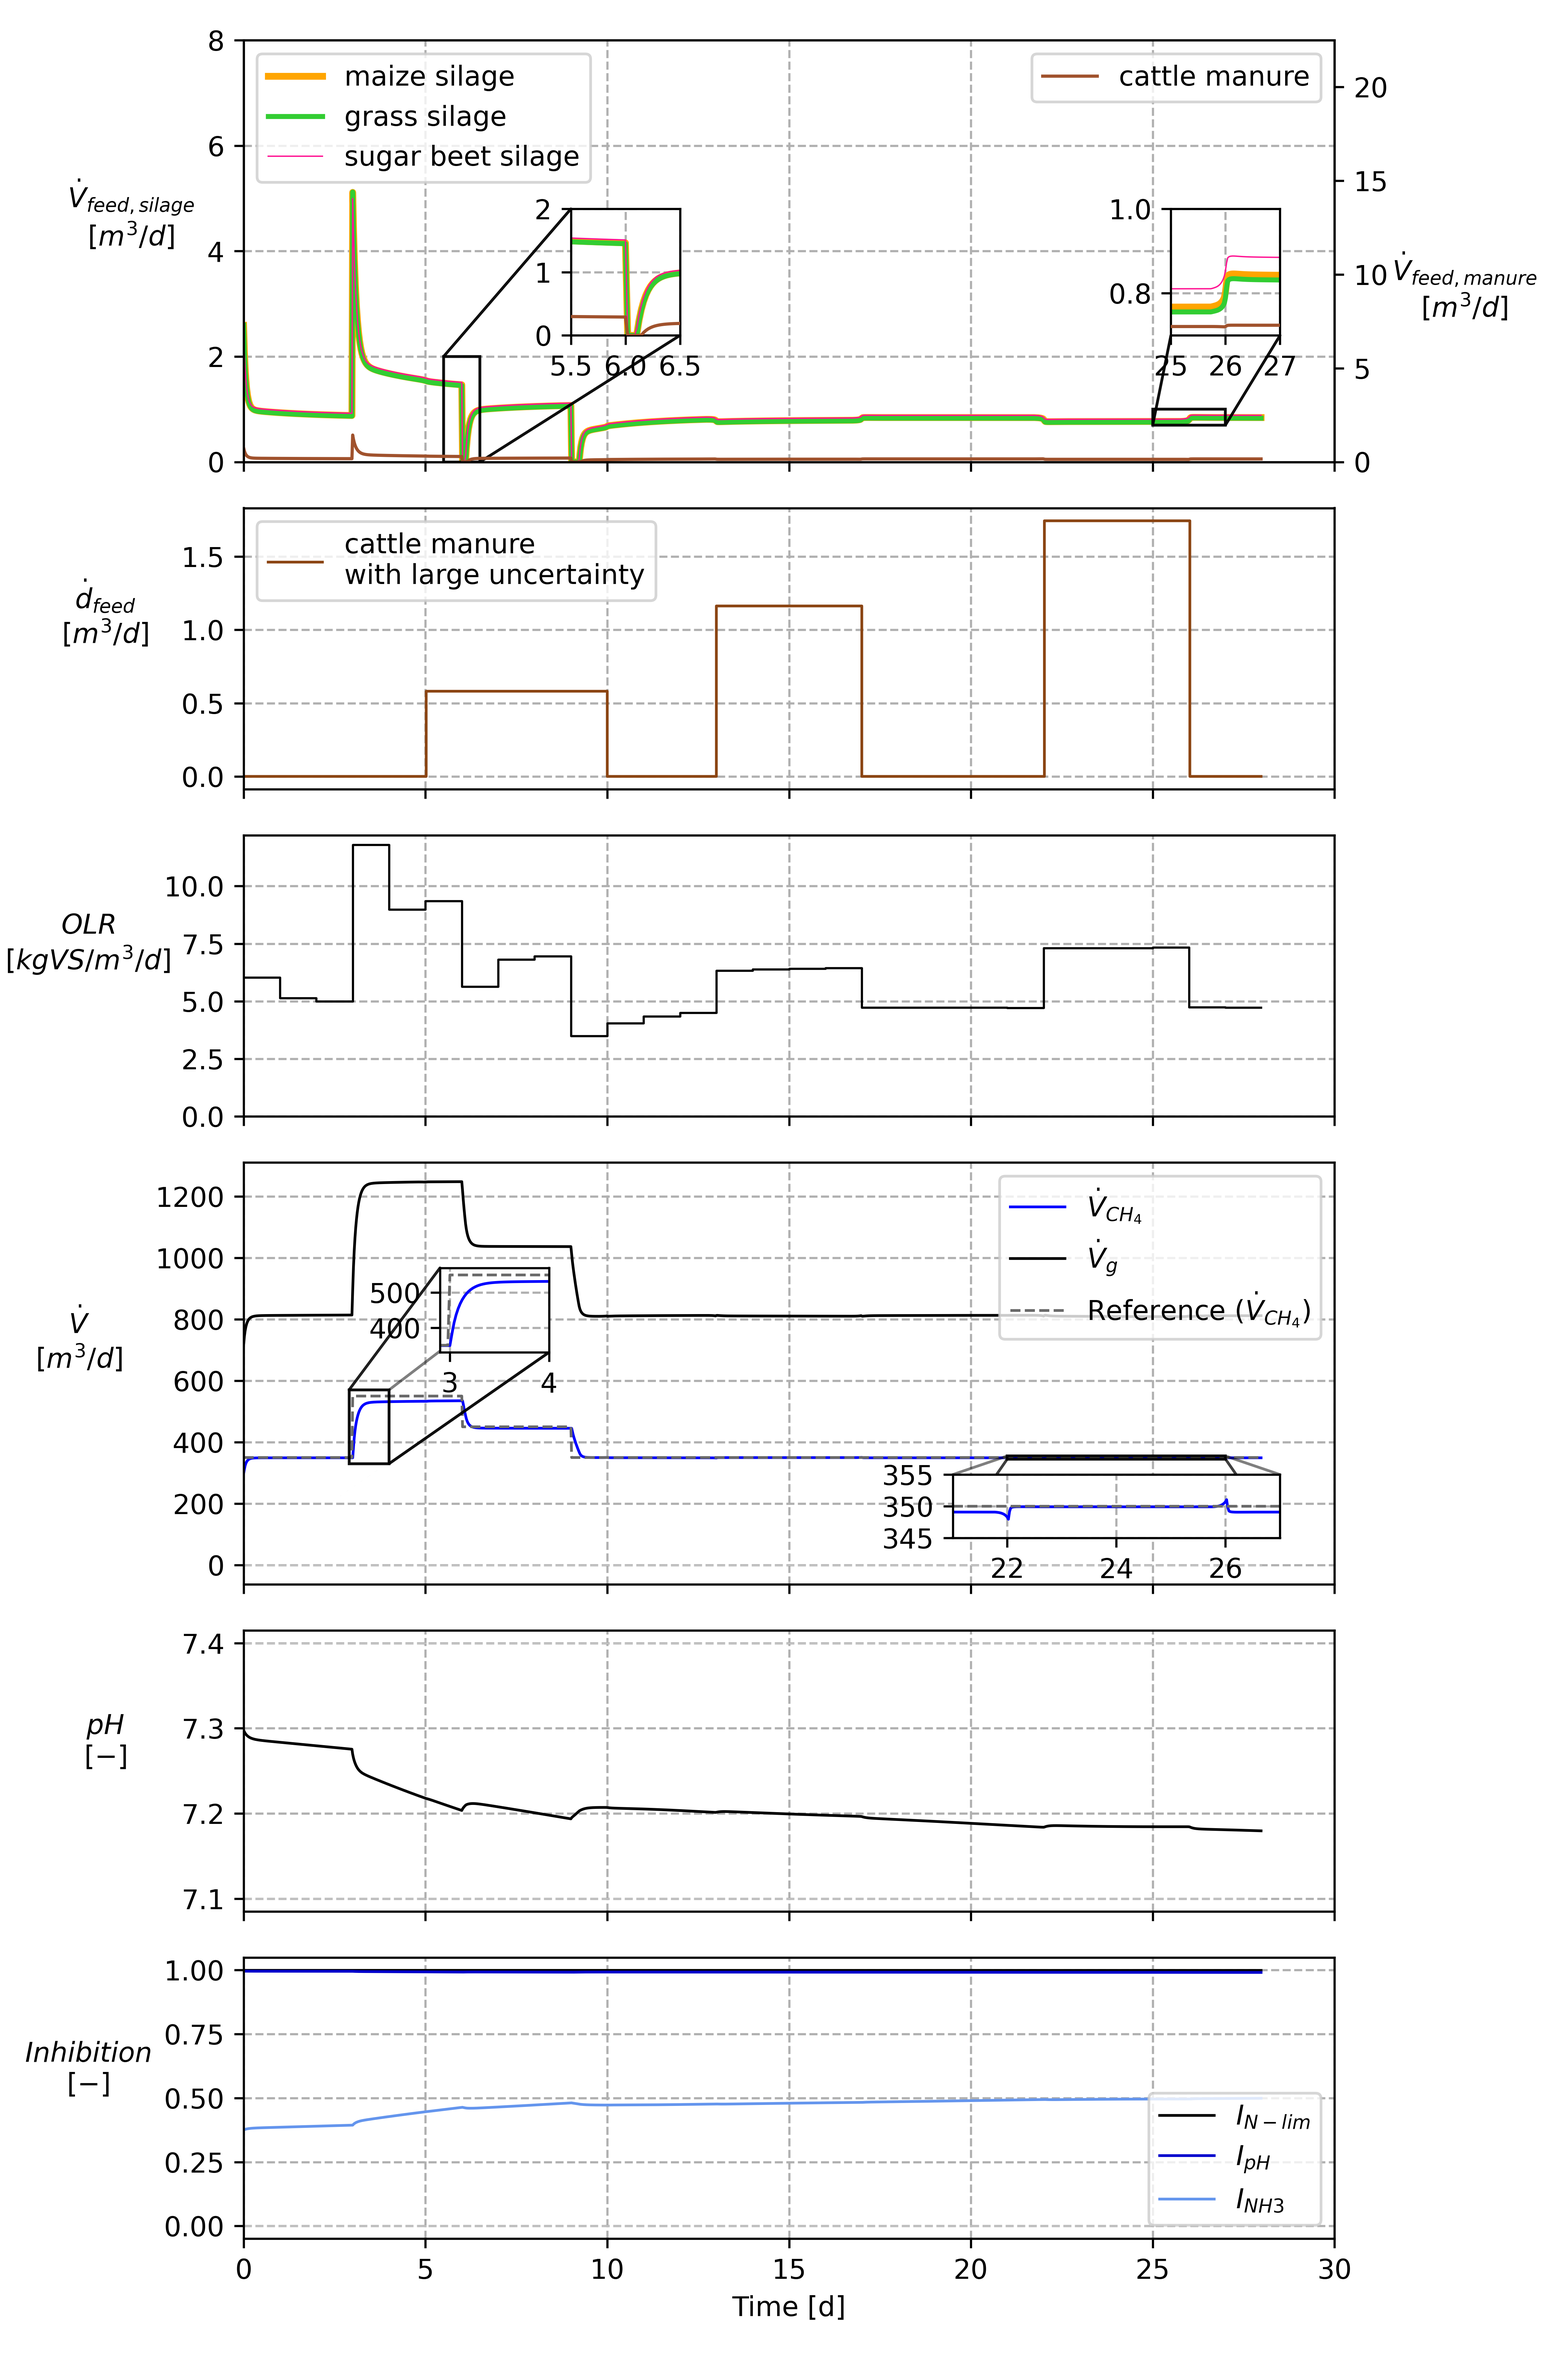
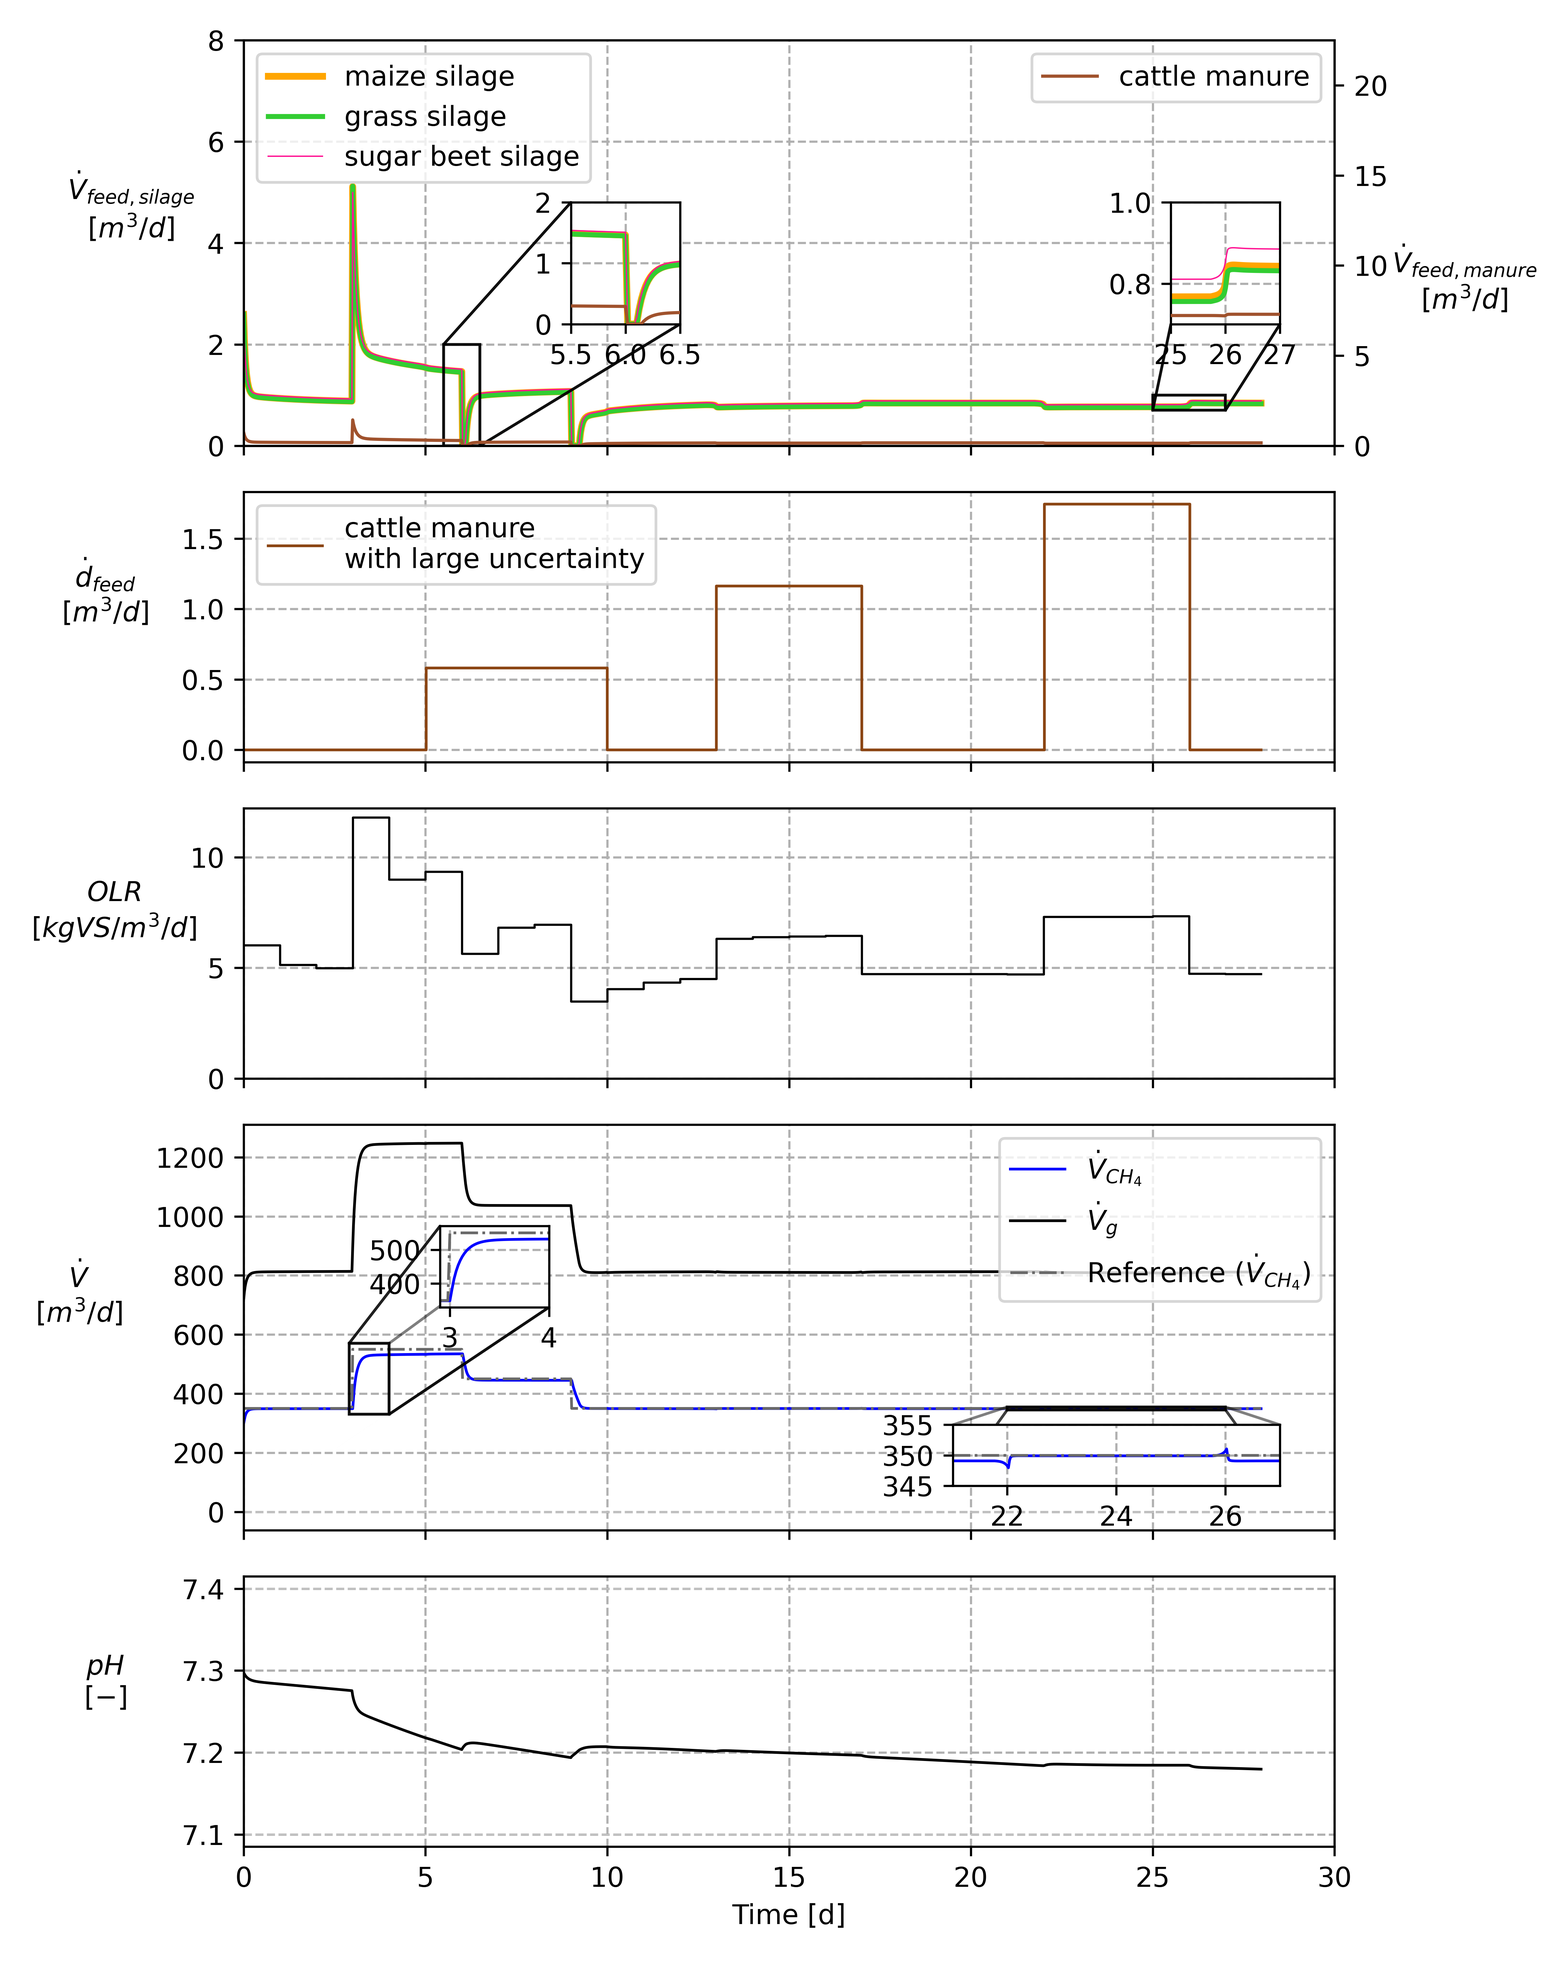
update scenario 1b

diff --git a/ad_meal_prep_control/plot_generation/plot_scenario_1b.py b/ad_meal_prep_control/plot_generation/plot_scenario_1b.py
@@ -62,7 +62,7 @@ for scenario_name, plot_save_name in zip(scenario_names, plot_save_name):
                         mpl_properties=MPLProperties(
                             color='dimgrey',
                             linewidth=1,
-                            linestyle="dashed",
+                            linestyle="-.",
                         ),
                         label=r"Reference ($\dot V_{CH_4}$)",
                     ),
@@ -77,29 +77,29 @@ for scenario_name, plot_save_name in zip(scenario_names, plot_save_name):
                     )
                 },
             ),
-            (
-                r"$Inhibition$" + "\n" + r"$[-]$",
-                {
-                    "inhibition_1": PlotVarProperty(
-                        mpl_properties=MPLProperties(
-                            color="black", linewidth=1, linestyle="-"
-                        ),
-                        label=r"$I_{N-lim}$",
-                    ),
-                    "inhibition_2": PlotVarProperty(
-                        mpl_properties=MPLProperties(
-                            color="mediumblue", linewidth=1, linestyle="-"
-                        ),
-                        label=r"$I_{pH}$",
-                    ),
-                    "inhibition_3": PlotVarProperty(
-                        mpl_properties=MPLProperties(
-                            color="cornflowerblue", linewidth=1, linestyle="-"
-                        ),
-                        label=r"$I_{NH3}$",
-                    ),
-                },
-            ),
+            # (
+            #     r"$Inhibition$" + "\n" + r"$[-]$",
+            #     {
+            #         "inhibition_1": PlotVarProperty(
+            #             mpl_properties=MPLProperties(
+            #                 color="black", linewidth=1, linestyle="-"
+            #             ),
+            #             label=r"$I_{N-lim}$",
+            #         ),
+            #         "inhibition_2": PlotVarProperty(
+            #             mpl_properties=MPLProperties(
+            #                 color="mediumblue", linewidth=1, linestyle="-"
+            #             ),
+            #             label=r"$I_{pH}$",
+            #         ),
+            #         "inhibition_3": PlotVarProperty(
+            #             mpl_properties=MPLProperties(
+            #                 color="cornflowerblue", linewidth=1, linestyle="-"
+            #             ),
+            #             label=r"$I_{NH3}$",
+            #         ),
+            #     },
+            # ),
         ],
         plot_save_name=plot_save_name,
         constraints=[
@@ -107,11 +107,11 @@ for scenario_name, plot_save_name in zip(scenario_names, plot_save_name):
             Constraint(value=0, ax_idx=3, color="white"),  # gas production lower bound
             Constraint(value=7.1, ax_idx=4, color="white"),  # pH lower bound
             Constraint(value=7.4, ax_idx=4, color="white"),  # pH upper bound
-            Constraint(value=0, ax_idx=5, color="white"),  # inhibition lower bound
+            # Constraint(value=0, ax_idx=5, color="white"),  # inhibition lower bound
         ],
         dpi=dpi,
         show_plot=show_plot,
-        height_ratios=[1.5, 1, 1, 1.5, 1, 1],
+        height_ratios=[1.5, 1, 1, 1.5, 1],
         input_inset_axes=[
             {
                 "days": (5.5, 6.5),
